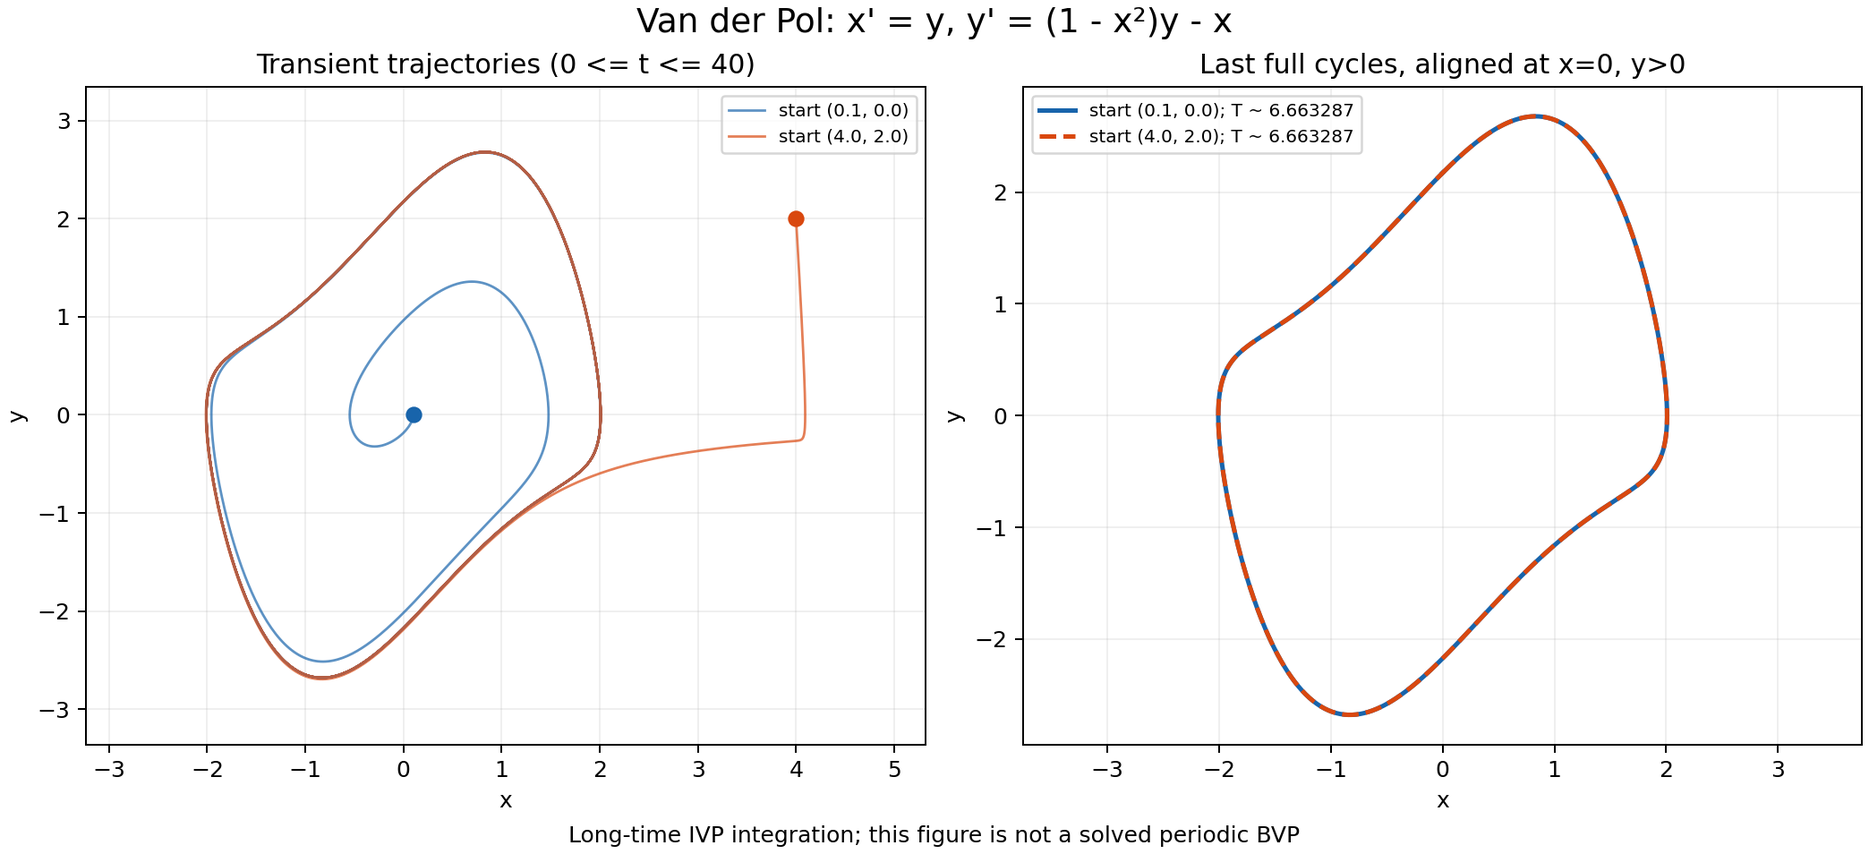
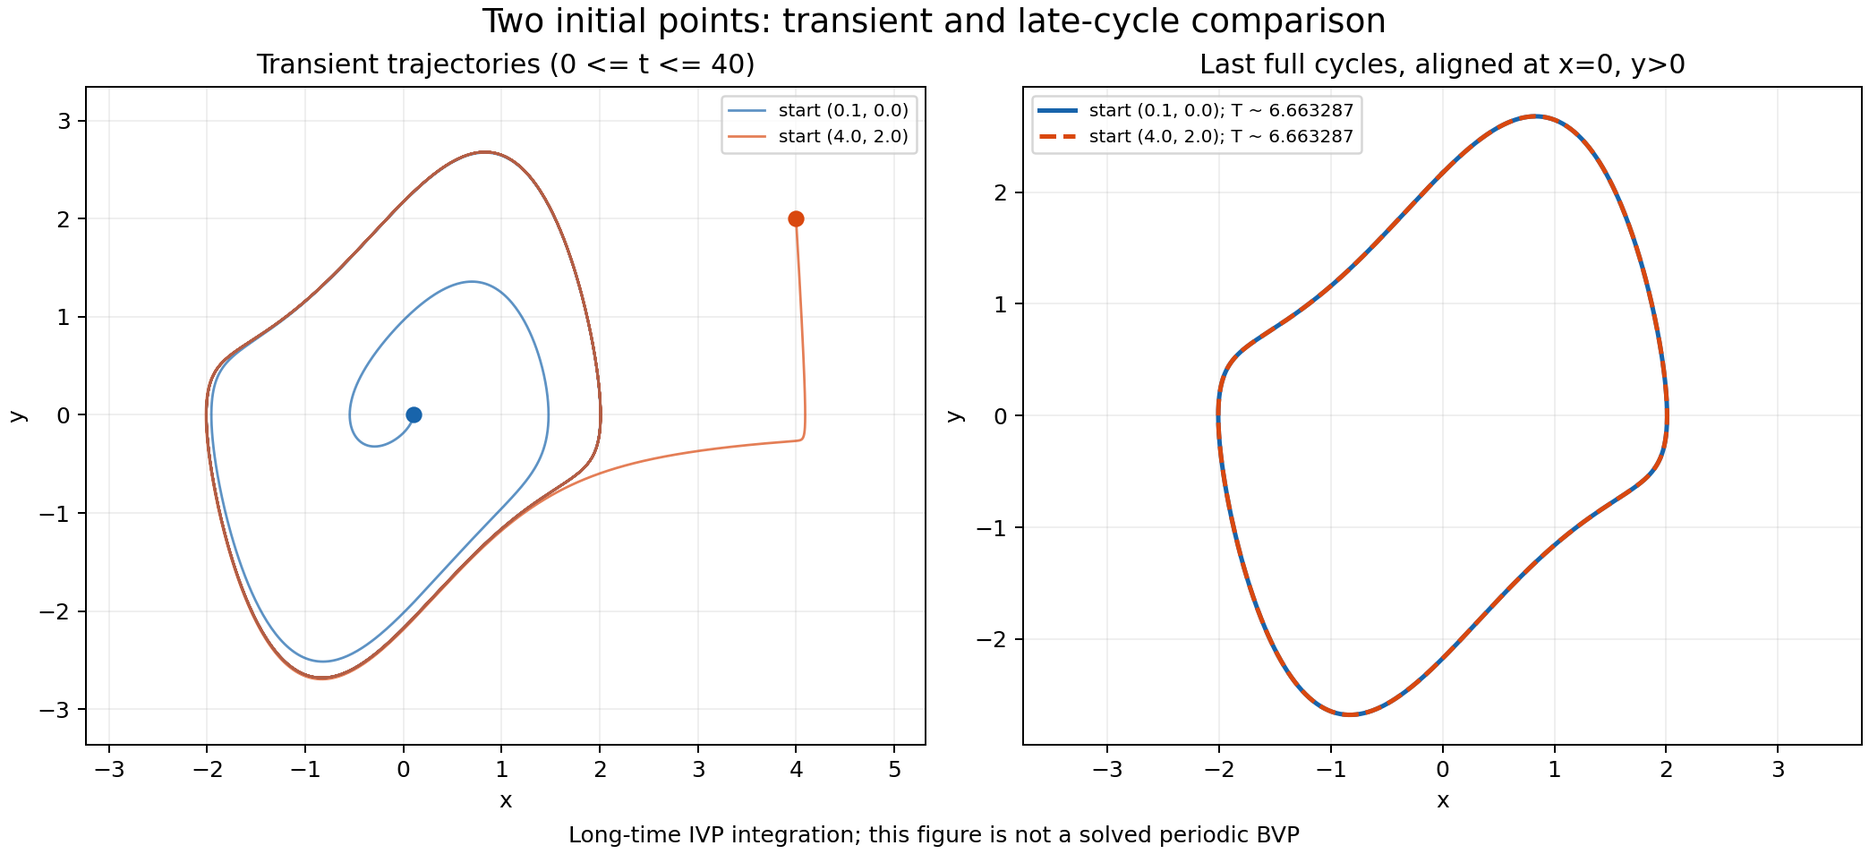
Harden defense experiment validation and audit coverage

Changed region(s): [[0.249, 0.0, 0.7471, 0.0608]]

diff --git a/defense_experiment.py b/defense_experiment.py
@@ -1,6 +1,7 @@
 """Reproducible defense experiment using the project's actual solver pipeline."""
 from pathlib import Path
 import json
+import re
 
 import numpy as np
 from scipy.interpolate import CubicSpline
@@ -8,6 +9,38 @@ from scipy.optimize import brentq
 
 from solver import ContinuationSolver
 from task_io import get_van_der_pol_tasks, save_task
+
+
+def validate_experiment_inputs(datasets):
+    """Require two distinct IVPs of the same system, before any integration."""
+    if len(datasets) != 2:
+        raise ValueError('The defense experiment requires exactly two initial points.')
+    first, second = datasets
+    for field in ('equations', 'parameters', 'continuation_param',
+                  'continuation_end', 'x_start', 'x_end'):
+        if getattr(first, field) != getattr(second, field):
+            raise ValueError(f'Both experiments must use the same system and interval: {field}.')
+    points = []
+    for dataset in datasets:
+        if len(dataset.equations) != 2:
+            raise ValueError('The phase experiment requires two first-order state equations.')
+        values = {}
+        for condition in dataset.boundary_conditions:
+            match = re.fullmatch(r'\s*(x[12])\(a\)\s*=\s*(.+)\s*', condition)
+            if not match or match[1] in values:
+                raise ValueError('Provide each initial condition x1(a), x2(a) exactly once.')
+            try:
+                values[match[1]] = float(match[2])
+            except ValueError as exc:
+                raise ValueError('Initial conditions for the experiment must be numeric literals.') from exc
+        if set(values) != {'x1', 'x2'} or not np.isfinite(list(values.values())).all():
+            raise ValueError('Provide finite initial conditions for both x1 and x2.')
+        points.append(np.array([values['x1'], values['x2']]))
+    separation = np.linalg.norm(points[0] - points[1])
+    scale = max(1.0, *(np.linalg.norm(point) for point in points))
+    if separation <= 0.1 * scale:
+        raise ValueError('Choose two substantially different initial points (separation > 10% of scale).')
+    return points
 
 
 def analyse_tail(t, states, transient_end=40.0):
@@ -25,6 +58,8 @@ def analyse_tail(t, states, transient_end=40.0):
         raise RuntimeError('Need at least three upward crossings after the transient.')
     last_three = np.asarray(crossings[-3:])
     periods = np.diff(last_three)
+    if np.max(np.diff(t)) > np.min(periods) / 100:
+        raise RuntimeError('Output sampling is too coarse for cycle validation; increase n_points.')
     phase = np.linspace(0.0, 1.0, 1001)
     cycle = interpolant(last_three[-2] + phase * periods[-1])
     section_states = interpolant(last_three)
@@ -41,14 +76,14 @@ def analyse_tail(t, states, transient_end=40.0):
 def compute_experiment(datasets=None):
     """Solve both user datasets through ContinuationSolver, with no saved answers."""
     datasets = get_van_der_pol_tasks() if datasets is None else datasets
-    if len(datasets) != 2:
-        raise ValueError('The defense experiment requires exactly two initial points.')
+    initial_points = validate_experiment_inputs(datasets)
     trajectories, summaries, cycles = [], [], []
-    for dataset in datasets:
+    for dataset, initial in zip(datasets, initial_points):
         solver = ContinuationSolver(dataset)
         # An initial guess for the existing boundary solver. Actual initial
         # conditions remain defined by dataset.boundary_conditions.
-        initial = [float(condition.split('=', 1)[1]) for condition in dataset.boundary_conditions]
+        if solver.order != 1 or solver.dep_vars != ['x1', 'x2']:
+            raise ValueError('The phase experiment requires first-order states x1 and x2.')
         t, states = solver.solve(initial)
         summary, cycle = analyse_tail(t, states)
         diagnostic = solver.last_diagnostics
@@ -61,9 +96,10 @@ def compute_experiment(datasets=None):
         summaries.append(summary)
         cycles.append(cycle)
     distance = float(np.max(np.linalg.norm(cycles[0] - cycles[1], axis=0)))
+    period_difference = abs(summaries[0]['period_estimate'] - summaries[1]['period_estimate'])
     # This is a numerical convergence diagnostic, not an existence/uniqueness
     # proof or the boundary residual of a periodic boundary-value problem.
-    converged = (distance < 1e-3 and all(
+    converged = (distance < 1e-3 and period_difference < 1e-4 and all(
         row['consecutive_period_change'] < 1e-4 and
         row['consecutive_section_change'] < 1e-4 for row in summaries))
     report = {
@@ -73,6 +109,7 @@ def compute_experiment(datasets=None):
         'transient_end': 40.0,
         'runs': summaries,
         'phase_aligned_max_distance': distance,
+        'between_run_period_difference': period_difference,
         'numerical_convergence_passed': bool(converged),
         'residual_note': 'Boundary residuals here measure the prescribed initial conditions only.',
     }
@@ -106,7 +143,7 @@ def save_phase_portrait(trajectories, cycles, report, path):
         ax.set_aspect('equal', adjustable='datalim')
         ax.grid(alpha=0.2)
         ax.legend(fontsize=8, loc='best')
-    fig.suptitle("Van der Pol: x' = y, y' = (1 - x²)y - x", fontsize=15)
+    fig.suptitle('Two initial points: transient and late-cycle comparison', fontsize=15)
     fig.supxlabel('Long-time IVP integration; this figure is not a solved periodic BVP', fontsize=10)
     fig.savefig(path, dpi=180)
 

diff --git a/tests/test_defense.py b/tests/test_defense.py
@@ -8,7 +8,7 @@ import pytest
 from dataset import Dataset
 from solver import BoundaryDiagnostics, ContinuationSolver
 from task_io import get_van_der_pol_tasks
-from defense_experiment import compute_experiment
+from defense_experiment import compute_experiment, validate_experiment_inputs, analyse_tail
 
 
 def test_two_initial_points_converge_with_independent_integrators():
@@ -100,3 +100,82 @@ def test_parameter_layers_keep_separate_diagnostics():
         np.testing.assert_allclose(diagnostic.residuals, [entry[1][0, -1] - 2], atol=1e-15)
     assert worker.boundary_diagnostics[0].label != worker.boundary_diagnostics[1].label
     app.processEvents()
+
+
+def test_different_systems_and_duplicate_initial_points_are_rejected():
+    first, second = get_van_der_pol_tasks()
+    faster = replace(second, equations=[
+        'Derivative(x1(t), t) - 2*x2 = 0',
+        'Derivative(x2(t), t) - 2*((1 - x1**2)*x2 - x1) = 0'])
+    with pytest.raises(ValueError, match='same system'):
+        compute_experiment([first, faster])
+    with pytest.raises(ValueError, match='different initial points'):
+        compute_experiment([first, first])
+
+
+def test_initial_conditions_are_mapped_by_variable_not_line_order():
+    datasets = get_van_der_pol_tasks()
+    reordered = [replace(d, boundary_conditions=d.boundary_conditions[::-1]) for d in datasets]
+    points = validate_experiment_inputs(reordered)
+    np.testing.assert_array_equal(points, [[0.1, 0], [4, 2]])
+    _, _, report = compute_experiment(reordered)
+    assert report['numerical_convergence_passed']
+    assert report['between_run_period_difference'] < 1e-4
+
+
+@pytest.mark.parametrize('conditions', [
+    ['x1(a) = 1', 'x2(b) = 2'],
+    ['x1(a) = 1', 'x1(a) = 2'],
+    ['x1(a) = nan', 'x2(a) = 2'],
+])
+def test_bad_initial_condition_sets_fail_before_solving(conditions):
+    first, second = get_van_der_pol_tasks()
+    with pytest.raises(ValueError):
+        compute_experiment([replace(first, boundary_conditions=conditions), second])
+
+
+def test_equilibrium_and_short_observation_are_not_claimed_as_cycles():
+    first, second = get_van_der_pol_tasks()
+    equilibrium = replace(first, boundary_conditions=['x1(a) = 0', 'x2(a) = 0'])
+    with pytest.raises(RuntimeError, match='three upward crossings'):
+        compute_experiment([equilibrium, second])
+    with pytest.raises(RuntimeError, match='three upward crossings'):
+        compute_experiment([replace(d, x_end=5) for d in [first, second]])
+
+
+def test_coarse_sampling_is_rejected_even_for_an_exact_periodic_curve():
+    t = np.linspace(0, 60, 121)
+    with pytest.raises(RuntimeError, match='too coarse'):
+        analyse_tail(t, np.array([np.sin(t), np.cos(t)]))
+
+
+@pytest.mark.parametrize('coefficient', [0.8, 1.4])
+def test_edited_system_changes_computed_cycle_and_period(coefficient):
+    datasets = [replace(d, x_end=80, n_points=8001, equations=[d.equations[0],
+                f'Derivative(x2(t), t) - ({coefficient}*(1 - x1**2)*x2 - x1) = 0'])
+                for d in get_van_der_pol_tasks()]
+    _, cycles, report = compute_experiment(datasets)
+    _, reference, _ = compute_experiment()
+    assert report['numerical_convergence_passed']
+    assert abs(report['runs'][0]['period_estimate'] - 6.66328686) > 0.05
+    assert np.max(np.linalg.norm(cycles[0] - reference[0], axis=0)) > 0.05
+
+
+def test_van_der_pol_variational_matrix_against_perturbed_ivps():
+    from scipy.integrate import solve_ivp
+    dataset = replace(get_van_der_pol_tasks()[0], x_end=1)
+    solver = ContinuationSolver(dataset)
+    state = np.array([0.4, -0.7])
+    expected_jac = [[0, 1], [-2*state[0]*state[1]-1, 1-state[0]**2]]
+    np.testing.assert_allclose(solver._state_jacobian(0, state, 1), expected_jac, atol=2e-8)
+    endpoint, transition = solver._integrate_state_and_variational(state, 1)
+    def endpoint_at(initial):
+        return solve_ivp(lambda t, y: [y[1], (1-y[0]**2)*y[1]-y[0]],
+                         [0, 1], initial, method='DOP853', rtol=1e-11,
+                         atol=1e-13).y[:, -1]
+    h = 1e-5
+    independent = np.column_stack([
+        (endpoint_at(state + h*direction) - endpoint_at(state - h*direction))/(2*h)
+        for direction in np.eye(2)])
+    np.testing.assert_allclose(endpoint, endpoint_at(state), atol=1e-9)
+    np.testing.assert_allclose(transition, independent, atol=2e-7, rtol=2e-7)

diff --git a/defense.md b/defense.md
@@ -118,9 +118,9 @@ y(0)=y(T), и неизвестный T не подбирался. Последн
 
 Периодические условия связывают два конца неизвестной траектории:
 
-\[
+$$
 R_1=x(T)-x(0)=0,\qquad R_2=y(T)-y(0)=0.
-\]
+$$
 
 Начальная точка на цикле обычно также неизвестна. Нужно подобрать её и,
 возможно, T, чтобы траектория замкнулась. Поскольку система автономна,
@@ -132,17 +132,17 @@ R_1=x(T)-x(0)=0,\qquad R_2=y(T)-y(0)=0.
 Сначала вводится нормированное время tau=t/T на фиксированном интервале [0,1].
 Период включается в набор неизвестных, например как постоянное состояние x3:
 
-\[
+$$
 \frac{dx}{d\tau}=Ty,\qquad
 \frac{dy}{d\tau}=T((1-x^2)y-x),\qquad
 \frac{dT}{d\tau}=0.
-\]
+$$
 
 Три неизвестных начальных значения: p=(x(0),y(0),T). Условия:
 
-\[
+$$
 x(1)-x(0)=0,\quad y(1)-y(0)=0,\quad y(0)=0.
-\]
+$$
 
 Последнее условие фиксирует фазу. Дополнительно нужно требовать T>0,
 ненулевую амплитуду, выбирать нужное направление пересечения, например
@@ -224,10 +224,10 @@ max(1e-6,100*tol). Результаты показываются как вычи
 Пусть z(t;p) решает z'=f(t,z), z(t0;p)=p. При фиксированном внешнем
 параметре введём матрицу чувствительности:
 
-\[
+$$
 X(t)=\frac{\partial z(t;p)}{\partial p},\qquad
 X'(t)=f_z(t,z(t;p))X(t),\qquad X(t_0)=I.
-\]
+$$
 
 Компонента X_ij показывает, как изменится i-я компонента состояния при малом
 изменении j-й компоненты начальных данных. В начальный момент z(t0;p)=p,
@@ -236,9 +236,9 @@ X'(t)=f_z(t,z(t;p))X(t),\qquad X(t_0)=I.
 
 Для двумерной системы Ван дер Поля аналитический Jacobian правой части имеет вид:
 
-\[
+$$
 f_z=\begin{pmatrix}0&1\\-2xy-1&1-x^2\end{pmatrix}.
-\]
+$$
 
 В проекте [solver.py](solver.py), `ContinuationSolver._state_jacobian()`,
 вычисляет этот Jacobian **численно центральными разностями**, а не символьным
@@ -265,10 +265,10 @@ def augmented(t, z):
 Далее `ContinuationSolver._phi_jacobian()` вызывает `_boundary_partials()`
 для получения R_a и R_b и составляет:
 
-\[
+$$
 \Phi(p)=R(p,z(b;p)),\qquad
 \Phi'(p)=R_a+R_bX(b).
-\]
+$$
 
 Это правило дифференцирования сложной функции: изменение начальных данных
 влияет на левую границу непосредственно и на правую через X(b).
@@ -278,9 +278,9 @@ def augmented(t, z):
 внешнего продолжения, затем для корректирующих шагов Ньютона.
 Идеальная непрерывная схема:
 
-\[
+$$
 \frac{dp}{d\mu}=-[\Phi'(p)]^+\Phi(p_0),\qquad p(0)=p_0,
-\]
+$$
 
 где плюс означает решение в смысле наименьших квадратов/псевдообратной.
 В коде внешняя задача дискретизируется явным Эйлером, а конечный остаток
@@ -306,8 +306,36 @@ python -m pytest -q
 и отдельные невязки для нескольких значений параметра. Существующий набор
 тестов проверяет четыре исходных примера, изменение входов и разбор выражений.
 
-Результат проверки 18 сентября 2026 года: **269 passed** (полный набор,
-около 213 секунд). Дополнительно проверен реальный QThread с доставкой
+Повторная проверка 25 сентября выявила две возможности ложного подтверждения:
+одинаковые начальные точки принимались как два опыта, а разные системы с одной
+геометрической орбитой могли совпадать после нормирования фазы, даже имея разные
+периоды. Теперь `validate_experiment_inputs()` до интегрирования требует одну
+систему, одинаковые параметры и интервал, а также разные начальные точки.
+Сравнение уравнений консервативное: строки должны совпадать, символьная
+эквивалентность не проверяется. Начальные условия эксперимента должны задавать
+конечные числовые значения `x1(a)` и `x2(a)` по одному разу; порядок строк
+не влияет на соответствие переменных. Расстояние между точками должно быть
+больше 10% от max(1, нормы обеих точек). Это критерий демонстрационного
+эксперимента, а не ограничение общего решателя краевых задач.
+
+Проверка установившегося режима требует не менее трёх пересечений после t=40,
+шаг вывода не более 1/100 оценённого периода, разность периодов двух запусков
+меньше 1e-4 и расстояние сопоставленных циклов меньше 1e-3. Изменения двух
+последних периодов и значений y на сечении также должны быть меньше 1e-4.
+При недостаточной длительности или грубой сетке программа сообщает ошибку,
+а не объявляет успех. Эти проверки не являются строгими оценками погрешности.
+
+Новые тесты проверяют перестановку условий, неподходящие условия, равновесие,
+короткий интервал, грубую сетку и изменение коэффициента при `(1-x1**2)*x2`
+на 0.8 и 1.4. В последних двух опытах период и форма цикла действительно
+изменяются; используется интервал [0,80]. Нельзя обещать установление режима
+к t=60 после произвольного изменения системы. Отдельно численный Jacobian
+сверен с аналитическим, а матрица X - с независимыми интегрированиями
+возмущённых начальных задач.
+
+Результат повторной проверки 25 сентября 2026 года: **279 passed** (полный
+набор, 217.23 секунды), включая **17** тестов `tests/test_defense.py`.
+Дополнительно проверен реальный QThread с доставкой
 результата в GUI; поле показало вычисленный максимум. Сохранённый общий
 фазовый портрет и размещение поля в интерфейсе проверены визуально.
 
@@ -316,8 +344,10 @@ python -m pytest -q
 примеров сверяются с конечными состояниями каждого возвращённого слоя.
 Новые файлы: `defense_experiment.py`, `tests/test_defense.py`, данный документ
 и четыре воспроизводимых файла в `defense_artifacts/`.
-Все эти изменения сохраняются одним отдельным Git commit. Команда `git show
---stat HEAD` показывает состав последнего коммита; `git show HEAD` - изменения
-кода. Для защиты нужно уметь объяснить перечисленные функции и самостоятельно
+Основное выполнение задания сохранено отдельным коммитом `da162b8`;
+последующая проверка и усиление валидации оформляются отдельным коммитом.
+Команда `git show --stat da162b8` показывает основной состав изменений,
+`git diff a3adc72..HEAD` - суммарные изменения задания и последующей проверки.
+Для защиты нужно уметь объяснить перечисленные функции и самостоятельно
 внести небольшое изменение, например заменить одну начальную точку и повторить
 опыт, объяснив отличие начальной невязки от проверки установившегося цикла.
